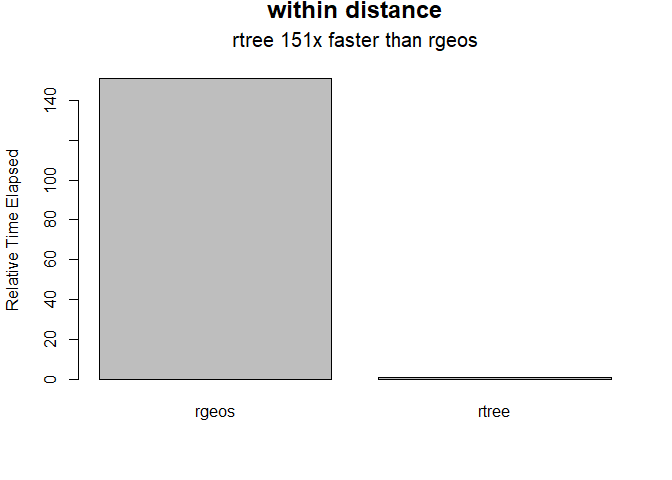
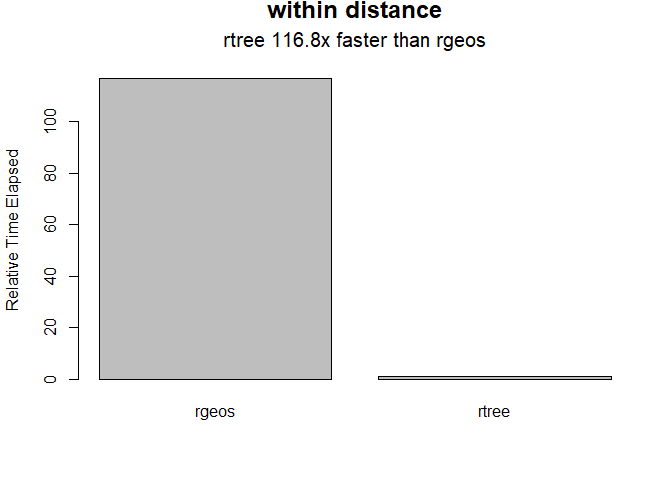
Cleanup README

diff --git a/README.md b/README.md
@@ -1,5 +1,5 @@
 
-The rtree package offers fast Euclidean within-distance checks and KNN
+The `rtree` package offers fast Euclidean within-distance checks and KNN
 calculations for points in 2D space. It offers significant speed-ups
 vis-a-vis simple implementations by relying on the [R-tree data
 structure](https://en.wikipedia.org/wiki/R-tree) implemented by the
@@ -7,20 +7,28 @@ structure](https://en.wikipedia.org/wiki/R-tree) implemented by the
 geometry](https://www.boost.org/doc/libs/1_75_0/libs/geometry/doc/html/geometry/spatial_indexes/introduction.html)
 library.
 
-rtree was inspired by
+`rtree` was inspired by
 [this](http://gallery.rcpp.org/articles/Rtree-examples/) example in the
 Rcpp gallery.
 
 ## Installation
+
+### From CRAN
+
+``` r
+install.packages("rtree")
+```
+
+### Development version
 
 ``` r
 # install.packages("remotes") # Install if needed
 remotes::install_github("akoyabio/rtree")
 ```
 
-Note: As of rtree version 0.2.0, rtree requires R version 4.0.0 or
-higher. This is because version 1.75 of `boost::geometry` requires C++14
-which is not well supported in R versions before 4.0.0.
+Note: As of version 0.2.0, `rtree` requires R version 4.0.0 or higher.
+This is because version 1.75 of `boost::geometry` requires C++14 which
+is not well supported in Windows R versions before 4.0.0.
 
 ## Usage
 
@@ -50,7 +58,7 @@ library(rtree)
 B_rtree <- RTree(B)
 ```
 
-The RTree function creates an S3 object of class RTree,
+The `RTree()` function creates an S3 object of class `RTree`,
 
 ``` r
 inherits(B_rtree, 'RTree')
@@ -58,9 +66,9 @@ inherits(B_rtree, 'RTree')
 
     ## [1] TRUE
 
-which essentially just points to a C++ object of class RTreeCpp.
+which essentially just points to a C++ object of class `RTreeCpp`.
 
-Using the RTree object, we can now perform our query efficiently:
+Using the `RTree` object, we can now perform our query efficiently:
 
 ``` r
 ## Within distance calculation
@@ -68,7 +76,7 @@ d <- 0.05
 wd_ls <- withinDistance(B_rtree, A, d)
 ```
 
-wd\_ls is a list of length nrow(A)…
+`wd_ls` is a list of length `nrow(A)`…
 
 ``` r
 nrow(A)==length(wd_ls)
@@ -108,7 +116,7 @@ points(b_wd[,1], b_wd[,2], col='red', pch=20)  # Plot relevant points in red
 ### Nearest Neighbor Calculation
 
 For each point of set *A*, *a*<sub>*i*</sub>, we want to know the *k*
-points in B closest to *a*<sub>*i*</sub>. Recycling the RTree object
+points in B closest to *a*<sub>*i*</sub>. Recycling the `RTree` object
 created above, we perform the knn computation…
 
 ``` r
@@ -118,7 +126,7 @@ knn_ls <- knn(B_rtree, A, k)
 ```
 
 …which returns a list of the same format as above, with the exception
-that each element of knn\_ls is exactly of length *k*.
+that each element of `knn_ls` is exactly of length *k*.
 
 Again, we may plot the result to inspect its veracity:
 
@@ -174,8 +182,8 @@ print(bm.wd)
 ```
 
     ##    test replications elapsed relative
-    ## 2 rgeos           10    4.53      151
-    ## 1 rtree           10    0.03        1
+    ## 2 rgeos           10    4.67   116.75
+    ## 1 rtree           10    0.04     1.00
 
 ``` r
 ## Plot
@@ -226,8 +234,8 @@ print(bm.knn)
 ```
 
     ##     test replications elapsed relative
-    ## 2 kdtree           10    1.46    1.698
-    ## 1  rtree           10    0.86    1.000
+    ## 2 kdtree           10    1.45    1.667
+    ## 1  rtree           10    0.87    1.000
 
 ``` r
 ## Plot
